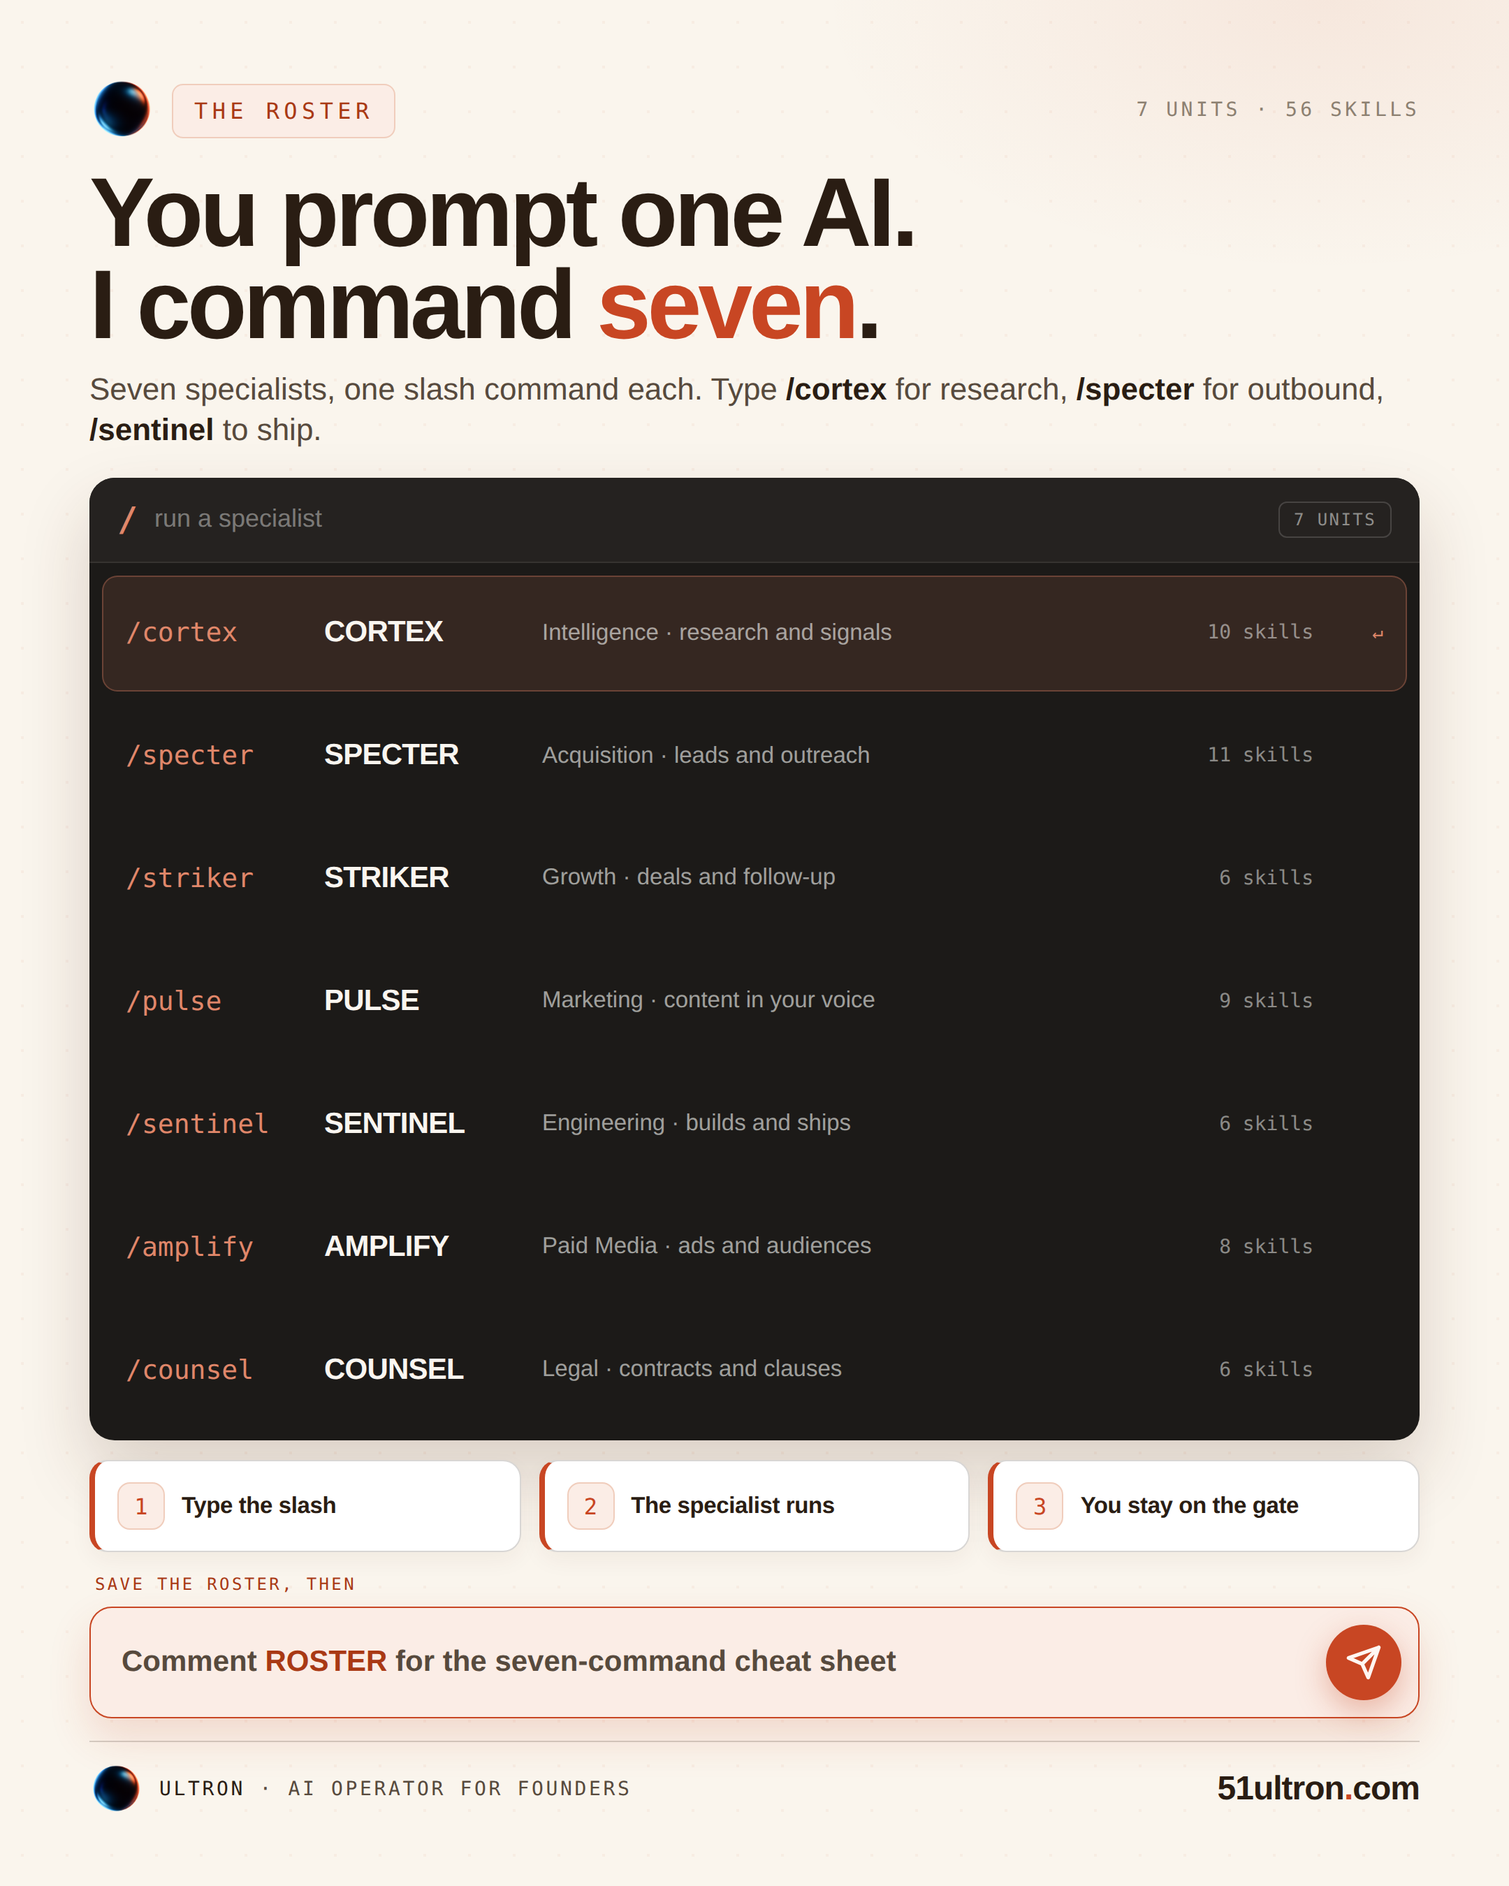
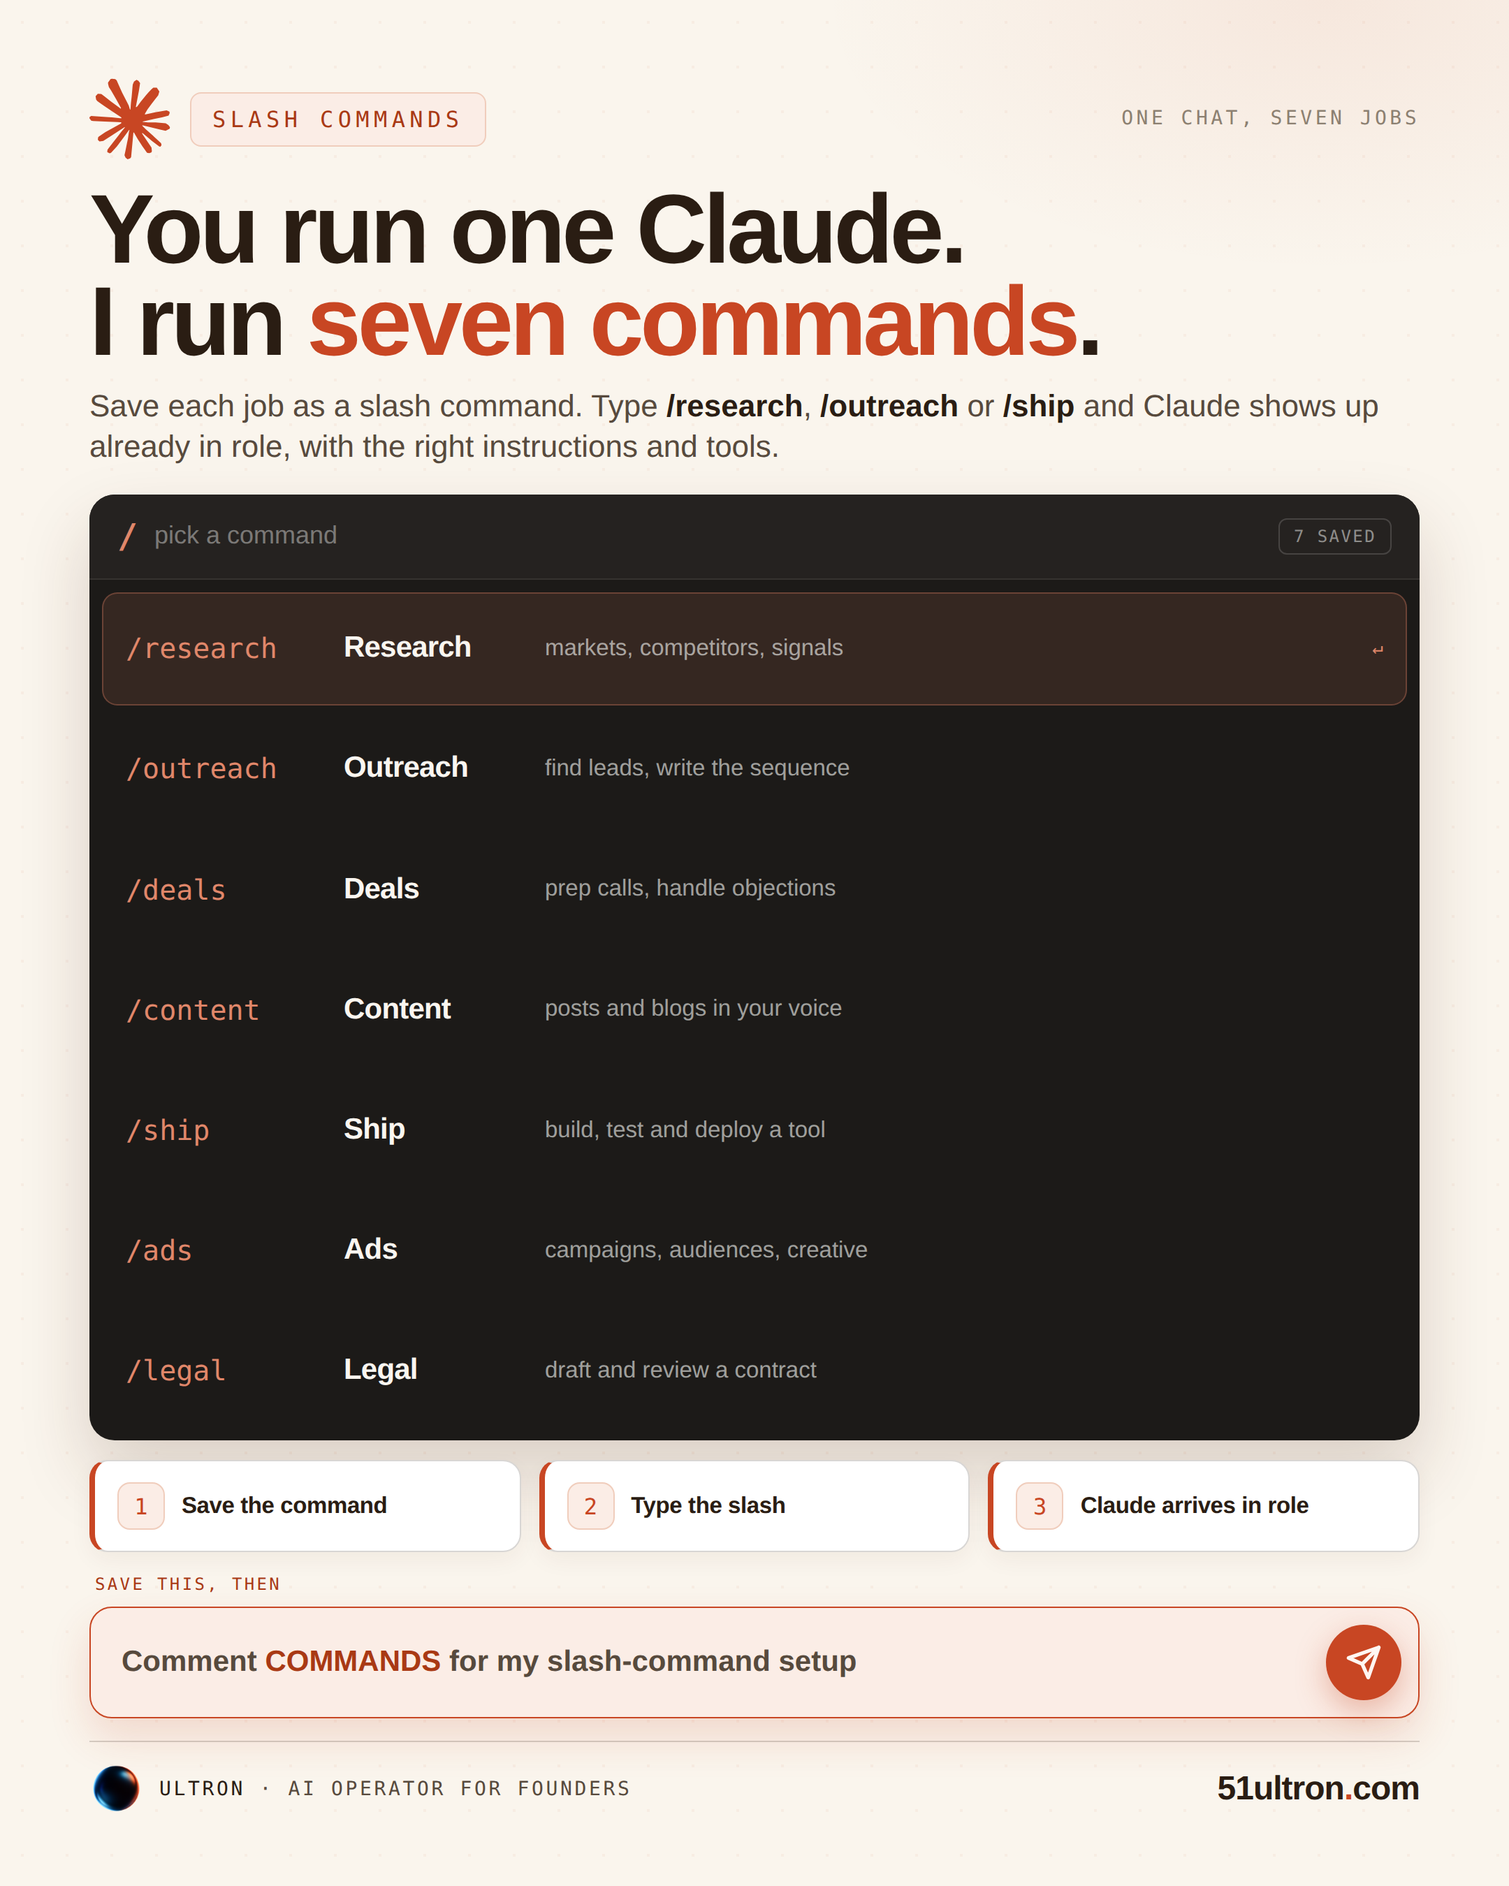
personas: redo TikTok infographic to Claude perspective + encode the rule
TikTok = Claude perspective, not Ultron (operator, 2x). Personas TikTok is now Claude
Code slash commands (/research, /outreach, /ship...) with the Claude sunburst, Ultron in
footer only. Caption re-voiced (keyword COMMANDS). Rule added to CLAUDE.md 30 process guards.

Claude-Session: https://claude.ai/code/session_018fS7xMwDiJUxoNS3zo3BKw

diff --git a/content/personas-roster-editorial45-infographic.html b/content/personas-roster-editorial45-infographic.html
@@ -2,11 +2,12 @@
 <html lang="en">
 <head>
 <meta charset="UTF-8">
-<title>Ultron personas - TikTok infographic (light, 1080x1350)</title>
+<title>Claude slash commands - TikTok infographic (light, 1080x1350)</title>
 <style>
 @import 'https://fonts.googleapis.com/css2?family=DM+Sans:opsz,wght@9..40,400;9..40,500;9..40,600;9..40,700;9..40,800;9..40,900&family=DM+Mono:wght@400;500&display=swap';
-/* Personas - TikTok infographic. Reframe hook ("you prompt one AI, I command seven"). LIGHT / REALNUMBERS.
-   BESPOKE: a slash-command palette mockup (the 7 personas as a command menu). chat-bar CTA. 1080x1350. */
+/* Claude slash commands - TikTok infographic. CLAUDE PERSPECTIVE (not Ultron): run Claude as a team of
+   specialists via custom slash commands. Claude sunburst mark, generic commands, Ultron only in footer.
+   BESPOKE: a slash-command palette mockup. chat-bar CTA. 1080x1350. */
 :root{--cream:#FAF5ED;--cream-2:#F3EADD;--card:#FFFFFF;--ink:#2A1D13;--ink-2:#574A3D;--mut:#8C8071;
 --org:#C84623;--org-deep:#A93914;--rule:rgba(42,29,19,.11);--rule-2:rgba(42,29,19,.18);
 --coral-bg:#FBEDE6;--coral-bd:#F0CDBC;--panel:#1C1A18;}
@@ -16,8 +17,8 @@ body{background:#0c0a09;display:flex;justify-content:center;padding:30px 0;font-
 .slide::before{content:'';position:absolute;inset:0;pointer-events:none;z-index:0;background-image:radial-gradient(rgba(200,70,35,.05) 1.1px,transparent 1.2px);background-size:32px 32px;}
 .slide::after{content:'';position:absolute;inset:0;pointer-events:none;z-index:0;background:radial-gradient(ellipse 56% 24% at 88% 0%,rgba(200,70,35,.08),transparent 60%);}
 .slide>*{position:relative;z-index:2;}
-.kick{display:flex;align-items:center;gap:13px;flex-shrink:0;}
-.klogo{width:46px;height:46px;border-radius:50%;object-fit:cover;flex-shrink:0;}
+.spk{width:58px;height:58px;flex-shrink:0;}
+.kick{display:flex;align-items:center;gap:14px;flex-shrink:0;}
 .kick .tag{font-family:'DM Mono',monospace;font-size:16px;font-weight:500;letter-spacing:.2em;color:var(--org-deep);border:1px solid var(--coral-bd);background:var(--coral-bg);padding:9px 15px;border-radius:8px;}
 .kick .meta{margin-left:auto;font-family:'DM Mono',monospace;font-size:14px;letter-spacing:.16em;color:var(--mut);text-transform:uppercase;}
 .h1{font-size:70px;font-weight:900;letter-spacing:-2.6px;line-height:.94;color:var(--ink);margin-top:18px;flex-shrink:0;}
@@ -32,10 +33,9 @@ body{background:#0c0a09;display:flex;justify-content:center;padding:30px 0;font-
 .menu-list{flex:1;display:flex;flex-direction:column;padding:9px;gap:5px;min-height:0;}
 .mrow{flex:1;display:flex;align-items:center;gap:16px;border-radius:11px;padding:0 16px;min-height:0;border:1px solid transparent;}
 .mrow.on{background:rgba(204,120,92,.14);border-color:rgba(204,120,92,.36);}
-.mrow .ms{font-family:'DM Mono',monospace;font-size:19px;font-weight:500;color:#E0876A;width:126px;flex-shrink:0;}
-.mrow .mn{font-size:21px;font-weight:800;color:#FAF6F0;letter-spacing:-.4px;width:140px;flex-shrink:0;}
+.mrow .ms{font-family:'DM Mono',monospace;font-size:20px;font-weight:500;color:#E0876A;width:140px;flex-shrink:0;}
+.mrow .mn{font-size:21px;font-weight:800;color:#FAF6F0;letter-spacing:-.4px;width:128px;flex-shrink:0;}
 .mrow .mu{flex:1;min-width:0;font-size:16.5px;font-weight:500;color:rgba(250,250,247,.6);}
-.mrow .mc{font-family:'DM Mono',monospace;font-size:14px;color:rgba(250,250,247,.5);flex-shrink:0;}
 .mrow .me{font-family:'DM Mono',monospace;font-size:13px;color:#E0876A;flex-shrink:0;width:34px;text-align:right;}
 /* how-it-works cards */
 .hiw{flex-shrink:0;margin-top:14px;display:flex;gap:13px;}
@@ -57,31 +57,31 @@ body{background:#0c0a09;display:flex;justify-content:center;padding:30px 0;font-
 <body>
 <div class="slide">
   <div class="kick">
-    <img class="klogo" src="__LOGO_URI__" alt="Ultron">
-    <span class="tag">THE ROSTER</span><span class="meta">7 units &middot; 56 skills</span>
+    <svg class="spk" viewBox="0 0 1200 1200"><path fill="#C84623" d="M 233.96 800.21 L 468.64 668.54 L 472.59 657.10 L 468.64 650.74 L 457.21 650.74 L 417.99 648.32 L 283.89 644.70 L 167.60 639.87 L 54.93 633.83 L 26.58 627.79 L 0 592.75 L 2.74 575.28 L 26.58 559.25 L 60.72 562.23 L 136.19 567.38 L 249.42 575.19 L 331.57 580.03 L 453.26 592.67 L 472.59 592.67 L 475.33 584.86 L 468.72 580.03 L 463.57 575.19 L 346.39 495.79 L 219.54 411.87 L 153.10 363.54 L 117.18 339.06 L 99.06 316.11 L 91.25 266.01 L 123.87 230.09 L 167.68 233.07 L 178.87 236.05 L 223.25 270.20 L 318.04 343.57 L 441.83 434.74 L 459.95 449.80 L 467.19 444.64 L 468.08 441.02 L 459.95 427.41 L 392.62 305.72 L 320.78 181.93 L 288.81 130.63 L 280.35 99.87 C 277.37 87.22 275.19 76.59 275.19 63.62 L 312.32 13.21 L 332.86 6.60 L 382.39 13.21 L 403.25 31.33 L 434.01 101.72 L 483.87 212.54 L 561.18 363.22 L 583.81 407.92 L 595.89 449.32 L 600.40 461.96 L 608.21 461.96 L 608.21 454.71 L 614.58 369.83 L 626.34 265.61 L 637.77 131.52 L 641.72 93.75 L 660.40 48.48 L 697.53 24.00 L 726.52 37.85 L 750.36 72 L 747.06 94.07 L 732.89 186.20 L 705.10 330.52 L 686.98 427.17 L 697.53 427.17 L 709.61 415.09 L 758.50 350.17 L 840.64 247.49 L 876.89 206.74 L 919.17 161.72 L 946.31 140.30 L 997.61 140.30 L 1035.38 196.43 L 1018.47 254.42 L 965.64 321.42 L 921.83 378.20 L 859.01 462.77 L 819.79 530.42 L 823.41 535.81 L 832.75 534.93 L 974.66 504.72 L 1051.33 490.87 L 1142.82 475.17 L 1184.21 494.50 L 1188.72 514.15 L 1172.46 554.34 L 1074.60 578.50 L 959.84 601.45 L 788.94 641.88 L 786.85 643.41 L 789.26 646.39 L 866.26 653.64 L 899.19 655.41 L 979.81 655.41 L 1129.93 666.60 L 1169.15 692.54 L 1192.67 724.27 L 1188.72 748.43 L 1128.32 779.19 L 1046.82 759.87 L 856.59 714.60 L 791.36 698.34 L 782.34 698.34 L 782.34 703.73 L 836.70 756.89 L 936.32 846.85 L 1061.07 962.82 L 1067.44 991.49 L 1051.41 1014.12 L 1034.50 1011.70 L 924.89 929.23 L 882.60 892.11 L 786.85 811.49 L 780.48 811.49 L 780.48 819.95 L 802.55 852.24 L 919.09 1027.41 L 925.13 1081.13 L 916.67 1098.60 L 886.47 1109.15 L 853.29 1103.11 L 785.07 1007.36 L 714.68 899.52 L 657.91 802.87 L 650.98 806.82 L 617.48 1167.70 L 601.77 1186.15 L 565.53 1200 L 535.33 1177.05 L 519.30 1139.92 L 535.33 1066.55 L 554.66 970.79 L 570.36 894.68 L 584.54 800.13 L 592.99 768.72 L 592.43 766.63 L 585.50 767.52 L 514.23 865.37 L 405.83 1011.87 L 320.05 1103.68 L 299.52 1111.81 L 263.92 1093.37 L 267.22 1060.43 L 287.11 1031.11 L 405.83 880.11 L 477.42 786.52 L 523.65 732.48 L 523.33 724.67 L 520.59 724.67 L 205.29 929.40 L 149.15 936.64 L 124.99 914.01 L 127.97 876.89 L 139.41 864.81 L 234.20 799.57 Z"/></svg>
+    <span class="tag">SLASH COMMANDS</span><span class="meta">one chat, seven jobs</span>
   </div>
-  <div class="h1">You prompt one AI.<br>I command <em>seven</em>.</div>
-  <div class="sub">Seven specialists, one slash command each. Type <b>/cortex</b> for research, <b>/specter</b> for outbound, <b>/sentinel</b> to ship.</div>
+  <div class="h1">You run one Claude.<br>I run <em>seven commands</em>.</div>
+  <div class="sub">Save each job as a slash command. Type <b>/research</b>, <b>/outreach</b> or <b>/ship</b> and Claude shows up already in role, with the right instructions and tools.</div>
   <div class="menu">
-    <div class="menu-bar"><span class="pr">/</span><span class="ph">run a specialist</span><span class="hint">7 units</span></div>
+    <div class="menu-bar"><span class="pr">/</span><span class="ph">pick a command</span><span class="hint">7 saved</span></div>
     <div class="menu-list">
-      <div class="mrow on"><span class="ms">/cortex</span><span class="mn">CORTEX</span><span class="mu">Intelligence &middot; research and signals</span><span class="mc">10 skills</span><span class="me">&#8629;</span></div>
-      <div class="mrow"><span class="ms">/specter</span><span class="mn">SPECTER</span><span class="mu">Acquisition &middot; leads and outreach</span><span class="mc">11 skills</span><span class="me"></span></div>
-      <div class="mrow"><span class="ms">/striker</span><span class="mn">STRIKER</span><span class="mu">Growth &middot; deals and follow-up</span><span class="mc">6 skills</span><span class="me"></span></div>
-      <div class="mrow"><span class="ms">/pulse</span><span class="mn">PULSE</span><span class="mu">Marketing &middot; content in your voice</span><span class="mc">9 skills</span><span class="me"></span></div>
-      <div class="mrow"><span class="ms">/sentinel</span><span class="mn">SENTINEL</span><span class="mu">Engineering &middot; builds and ships</span><span class="mc">6 skills</span><span class="me"></span></div>
-      <div class="mrow"><span class="ms">/amplify</span><span class="mn">AMPLIFY</span><span class="mu">Paid Media &middot; ads and audiences</span><span class="mc">8 skills</span><span class="me"></span></div>
-      <div class="mrow"><span class="ms">/counsel</span><span class="mn">COUNSEL</span><span class="mu">Legal &middot; contracts and clauses</span><span class="mc">6 skills</span><span class="me"></span></div>
+      <div class="mrow on"><span class="ms">/research</span><span class="mn">Research</span><span class="mu">markets, competitors, signals</span><span class="me">&#8629;</span></div>
+      <div class="mrow"><span class="ms">/outreach</span><span class="mn">Outreach</span><span class="mu">find leads, write the sequence</span><span class="me"></span></div>
+      <div class="mrow"><span class="ms">/deals</span><span class="mn">Deals</span><span class="mu">prep calls, handle objections</span><span class="me"></span></div>
+      <div class="mrow"><span class="ms">/content</span><span class="mn">Content</span><span class="mu">posts and blogs in your voice</span><span class="me"></span></div>
+      <div class="mrow"><span class="ms">/ship</span><span class="mn">Ship</span><span class="mu">build, test and deploy a tool</span><span class="me"></span></div>
+      <div class="mrow"><span class="ms">/ads</span><span class="mn">Ads</span><span class="mu">campaigns, audiences, creative</span><span class="me"></span></div>
+      <div class="mrow"><span class="ms">/legal</span><span class="mn">Legal</span><span class="mu">draft and review a contract</span><span class="me"></span></div>
     </div>
   </div>
   <div class="hiw">
-    <div class="hstep"><span class="hn">1</span><span class="ht">Type the slash</span></div>
-    <div class="hstep"><span class="hn">2</span><span class="ht">The specialist runs</span></div>
-    <div class="hstep"><span class="hn">3</span><span class="ht">You stay on the gate</span></div>
+    <div class="hstep"><span class="hn">1</span><span class="ht">Save the command</span></div>
+    <div class="hstep"><span class="hn">2</span><span class="ht">Type the slash</span></div>
+    <div class="hstep"><span class="hn">3</span><span class="ht">Claude arrives in role</span></div>
   </div>
   <div class="ctawrap">
-    <div class="savel">Save the roster, then</div>
-    <div class="cta"><span class="ph">Comment <b>ROSTER</b> for the seven-command cheat sheet</span><span class="send"><svg viewBox="0 0 24 24"><path d="M22 2 11 13M22 2l-7 20-4-9-9-4z"/></svg></span></div>
+    <div class="savel">Save this, then</div>
+    <div class="cta"><span class="ph">Comment <b>COMMANDS</b> for my slash-command setup</span><span class="send"><svg viewBox="0 0 24 24"><path d="M22 2 11 13M22 2l-7 20-4-9-9-4z"/></svg></span></div>
   </div>
   <div class="ftr">
     <div class="ftr-l"><img src="__LOGO_URI__" alt="Ultron"><span class="ftr-tx"><b>ULTRON</b> &middot; AI OPERATOR FOR FOUNDERS</span></div>

diff --git a/content/personas-roster-editorial45-tiktok-caption.md b/content/personas-roster-editorial45-tiktok-caption.md
@@ -1,28 +1,26 @@
-# Ultron personas - TikTok caption kit
-For: personas-roster-editorial45-infographic (+ cross-post carousel) | Keyword: ROSTER
+# Claude slash commands - TikTok caption kit
+For: personas-roster-editorial45-infographic (+ carousel) | Keyword: COMMANDS | Claude perspective
 
 ## CAPTION
 
-Comment ROSTER and I will send you the seven-command cheat sheet.
+Comment COMMANDS and I will send you my slash-command setup.
 
-You prompt one AI to do everything. Operators command seven specialists.
+You run one Claude chat for everything. The trick is running a stack of slash commands instead.
 
-Now I do not type into a chat box. I type a slash.
+Now I do not re-explain the job every time. I type a slash.
 
-/cortex researches. /specter prospects. /striker closes. /pulse writes. /sentinel ships. /amplify advertises. /counsel drafts.
+/research pulls the market and the competitors. /outreach finds the leads and writes the sequence. /deals preps the call and handles objections. /content writes in my voice. /ship builds and tests a tool. Each command carries its own instructions and tools, so Claude shows up already in role.
 
-Seven heads of department, 56 skills underneath, and you stay on the gate so nothing sends without you.
-
-Stop prompting one generalist. Command a team.
+Stop re-briefing one Claude. Give it specialists.
 
 #claude #ai #founder #startup #buildinpublic
 
 ## ALT TEXT
 
-Light editorial infographic on a cream background with coral accents and the Ultron logo. The hook reads you prompt one AI, I command seven. Below it, a dark slash-command palette mockup with the prompt run a specialist and a menu of seven commands, each a slash command, an agent name, its unit and a skill count: /cortex CORTEX intelligence 10 skills, /specter SPECTER acquisition 11, /striker STRIKER growth 6, /pulse PULSE marketing 9, /sentinel SENTINEL engineering 6, /amplify AMPLIFY paid media 8, /counsel COUNSEL legal 6. Three steps below read type the slash, the specialist runs, you stay on the gate. Closes on a Comment ROSTER call to action and the Ultron logo.
+Light editorial infographic on a cream background with coral accents and a Claude sunburst. The hook reads you run one Claude, I run seven commands. Below it, a dark command-palette mockup with the prompt pick a command and seven saved slash commands, each a command, a role and a one-line job: /research for markets and signals, /outreach for leads and sequences, /deals for call prep and objections, /content for posts in your voice, /ship to build and deploy a tool, /ads for campaigns, and /legal to draft and review a contract. Three steps below read save the command, type the slash, Claude arrives in role. Closes on a Comment COMMANDS call to action and the Ultron logo.
 
 ## FIRST COMMENT
 
-One generalist AI does everything averagely. Seven specialists, one slash each, each with its own skills and the right model tier, do it properly. /cortex for research, /sentinel to ship a tool, /counsel for a contract. You stay on the gate.
+One Claude chat doing everything forgets the brief every time. Saved slash commands fix that: each one carries its own instructions and tools, so Claude opens already in role. Type /research and it is the researcher. Type /ship and it builds.
 
-Comment ROSTER and I will send you the seven-command cheat sheet. See the full system at app.51ultron.com/docs
+Comment COMMANDS and I will send you my slash-command setup. More at 51ultron.com

diff --git a/CLAUDE.md b/CLAUDE.md
@@ -1097,6 +1097,7 @@ into `analysis/virality-principles.md`. Metrics priority stays: reach+impression
 - **Every material is bespoke** - vary layout/treatment/palette per material; never reuse a "locked" template (operator: "nu repeta materialele intre ele").
 - **Density first** - the dominant block is heavy and packed; airy = skip.
 - **TikTok is a visual scene/mockup, not a dry table; CTA styled to the scene.**
+- **TikTok = CLAUDE perspective, NOT Ultron (operator, repeated 2x: "tiktok e claude perspective nu ultron... sa nu uiti"):** LinkedIn is the Ultron brand (Ultron logo, the agents/personas/tools as Ultron product features). **TikTok leads with Claude** - the Claude sunburst mark up top (never the Ultron logo in the kick), a Claude-forward hook ("You use Claude…", "Claude can…"), generic Claude / Claude-Code framing (slash commands, tool use, projects), and Ultron demoted to the footer logo + at most one caption line. Never make the Ultron logo, the named agent roster (CORTEX/SPECTER/…), or "Ultron's X" the TikTok subject; genericise to the underlying Claude/Claude-Code capability. Pair: "claude si claude code pur pentru tiktok."
 - **Stay on ICP (founders, not engineers)** - no raw code or dev internals inside a material; show the product UI and the founder-facing value (operator: "nu mai pune linii de cod ... te indepartezi de ICP").
 - **Content is real** - numbers/features pulled from the docs, never invented; links only to confirmed app.51ultron.com paths, first comment only.
 - **Portal** - after adding materials, rescan + commit the manifest; last-added is first in every category; private port, open in a real browser.
